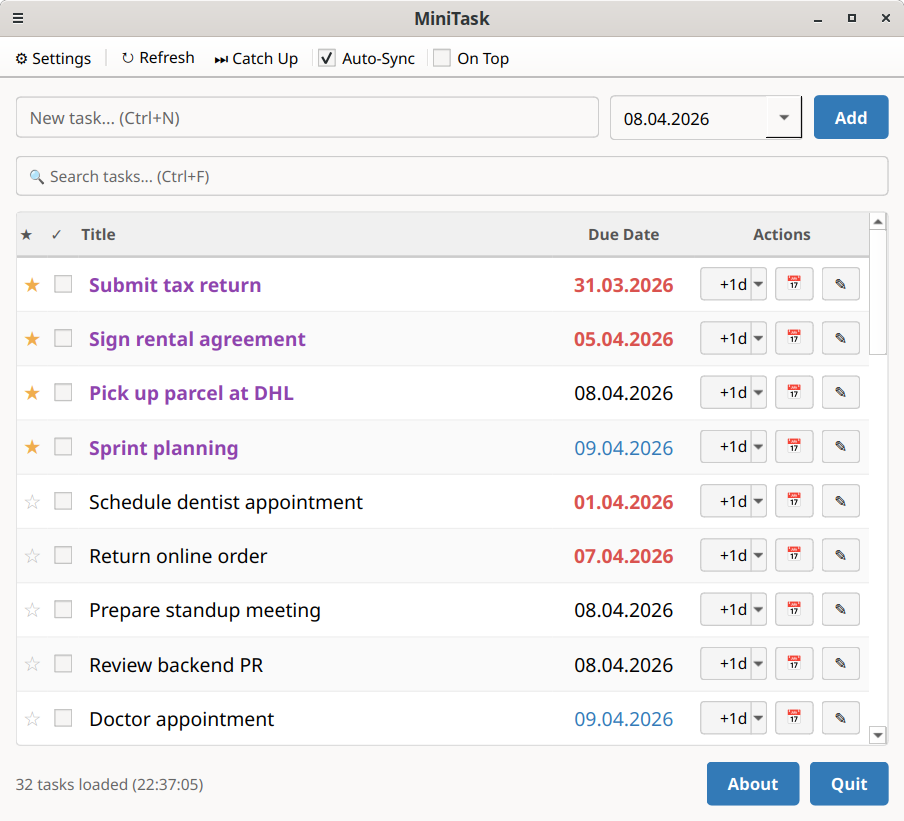
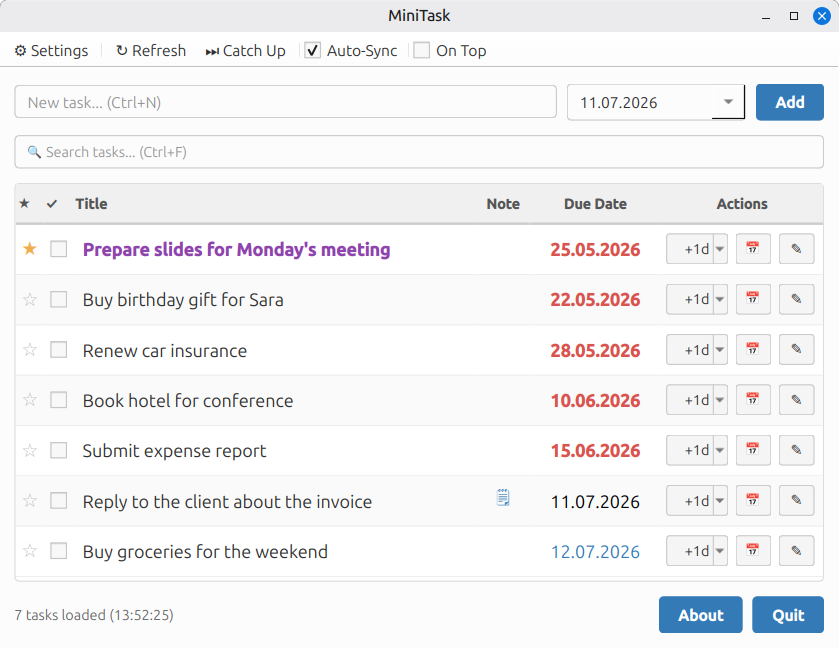
feat: add note (DESCRIPTION) support across UI, CalDAV and MCP
Adds a free-text note per task, mapped to the iCalendar DESCRIPTION
property, so notes stay portable and visible in other CalDAV clients.

- Task model gains a note field
- CalDAV create/update/parse write and read DESCRIPTION; existing notes
  are unfolded via the icalendar parser and preserved on update
- MCP create_task/update_task expose note, plus a clear_note flag for
  clients that drop empty-string arguments
- Edit dialog gets a multi-line note field; task table shows a note
  indicator column
- Docs (README, MCP.md) and screenshot updated

🤖 Generated with [Claude Code](https://claude.com/claude-code)

diff --git a/src/services/caldav_client.py b/src/services/caldav_client.py
@@ -61,7 +61,7 @@ class CalDAVService:
                 logger.warning("Failed to parse todo: %s", e)
         return tasks
 
-    def create_task(self, title: str, date_str: str = "") -> bool:
+    def create_task(self, title: str, date_str: str = "", note: str = "") -> bool:
         if not self._calendar:
             raise ConnectionError("No calendar selected")
         uid = str(uuid.uuid4()).upper()
@@ -79,6 +79,8 @@ class CalDAVService:
         ]
         if date_str:
             lines.append(f"DUE;VALUE=DATE:{date_str.replace('-', '')}")
+        if note:
+            lines.append(f"DESCRIPTION:{self._escape_ical(note)}")
         lines += ["END:VTODO", "END:VCALENDAR"]
         try:
             self._calendar.save_todo("\r\n".join(lines) + "\r\n")
@@ -89,7 +91,7 @@ class CalDAVService:
             raise
 
     def update_task(self, uri: str, title: str = "", date_str: str = "",
-                    starred: bool | None = None) -> bool:
+                    starred: bool | None = None, note: str | None = None) -> bool:
         if not self._calendar:
             raise ConnectionError("No calendar selected")
         try:
@@ -109,6 +111,18 @@ class CalDAVService:
                     existing_due = line
                 elif line.startswith("PRIORITY:"):
                     existing_priority = line
+
+            # DESCRIPTION can be folded across multiple physical lines, so read it
+            # via the icalendar parser (which unfolds/unescapes) instead of raw lines.
+            existing_note = ""
+            try:
+                for component in todo_obj.icalendar_instance.walk("VTODO"):
+                    desc = component.get("description")
+                    if desc:
+                        existing_note = str(desc)
+                    break
+            except Exception as e:
+                logger.warning("Failed to read existing description: %s", e)
 
             now = datetime.now(tz=timezone.utc).strftime("%Y%m%dT%H%M%SZ")
             lines = [
@@ -135,6 +149,13 @@ class CalDAVService:
             elif starred is None and existing_priority:
                 lines.append(existing_priority)
             # starred is False → kein PRIORITY-Eintrag = Stern entfernen
+
+            # note is None → keep existing; "" → clear; text → set
+            if note is not None:
+                if note:
+                    lines.append(f"DESCRIPTION:{self._escape_ical(note)}")
+            elif existing_note:
+                lines.append(f"DESCRIPTION:{self._escape_ical(existing_note)}")
 
             lines.append("STATUS:NEEDS-ACTION")
 
@@ -182,6 +203,8 @@ class CalDAVService:
                 priority = component.get("priority")
                 starred = int(str(priority)) == 1 if priority else False
                 completed = component.get("completed") is not None
+                description = component.get("description")
+                note = str(description) if description else ""
                 return Task(
                     id=uid,
                     uri=str(todo_obj.url),
@@ -189,6 +212,7 @@ class CalDAVService:
                     date=date_str,
                     completed=completed,
                     starred=starred,
+                    note=note,
                 )
         except Exception as e:
             logger.warning("Parse error: %s", e)

diff --git a/src/views/task_widgets.py b/src/views/task_widgets.py
@@ -27,8 +27,9 @@ from src.utils.date_helpers import (
 COL_STAR = 0
 COL_DONE = 1
 COL_TITLE = 2
-COL_DATE = 3
-COL_ACTIONS = 4
+COL_NOTE = 3
+COL_DATE = 4
+COL_ACTIONS = 5
 
 
 class TaskTable(QTreeWidget):
@@ -42,7 +43,7 @@ class TaskTable(QTreeWidget):
 
     def __init__(self, parent=None):
         super().__init__(parent)
-        self.setHeaderLabels(["\u2605", "\u2713", "Title", "Due Date", "Actions"])
+        self.setHeaderLabels(["\u2605", "\u2713", "Title", "Note", "Due Date", "Actions"])
         self.setRootIsDecorated(False)
         self.setAlternatingRowColors(True)
         self.setSelectionMode(QAbstractItemView.SelectionMode.NoSelection)
@@ -55,13 +56,16 @@ class TaskTable(QTreeWidget):
         header.setSectionResizeMode(COL_STAR, QHeaderView.ResizeMode.Fixed)
         header.setSectionResizeMode(COL_DONE, QHeaderView.ResizeMode.Fixed)
         header.setSectionResizeMode(COL_TITLE, QHeaderView.ResizeMode.Stretch)
+        header.setSectionResizeMode(COL_NOTE, QHeaderView.ResizeMode.Fixed)
         header.setSectionResizeMode(COL_DATE, QHeaderView.ResizeMode.Fixed)
         header.setSectionResizeMode(COL_ACTIONS, QHeaderView.ResizeMode.Fixed)
         self.setColumnWidth(COL_STAR, 24)
         self.setColumnWidth(COL_DONE, 24)
+        self.setColumnWidth(COL_NOTE, 44)
         self.setColumnWidth(COL_DATE, 110)
         self.setColumnWidth(COL_ACTIONS, 135)
         header.setDefaultAlignment(Qt.AlignmentFlag.AlignLeft | Qt.AlignmentFlag.AlignVCenter)
+        self.headerItem().setTextAlignment(COL_NOTE, Qt.AlignmentFlag.AlignCenter)
         self.headerItem().setTextAlignment(COL_DATE, Qt.AlignmentFlag.AlignCenter)
         self.headerItem().setTextAlignment(COL_ACTIONS, Qt.AlignmentFlag.AlignCenter)
 
@@ -136,6 +140,25 @@ class TaskTable(QTreeWidget):
         else:
             title_label.setStyleSheet("background: transparent;")
         self.setItemWidget(item, COL_TITLE, title_label)
+
+        # Note indicator (only shown when a note exists)
+        if task.note:
+            note_btn = QPushButton("\U0001f5d2")
+            note_btn.setFixedSize(22, 22)
+            note_btn.setCursor(Qt.CursorShape.PointingHandCursor)
+            note_btn.setStyleSheet(
+                "border: none; background: transparent; color: #337ab7; font-size: 14px;"
+            )
+            note_btn.setToolTip(task.note)
+            note_btn.clicked.connect(
+                lambda checked, uri=task.uri: self.edit_requested.emit(uri)
+            )
+            note_widget = QWidget()
+            note_layout = QHBoxLayout(note_widget)
+            note_layout.setContentsMargins(0, 0, 0, 0)
+            note_layout.setAlignment(Qt.AlignmentFlag.AlignCenter)
+            note_layout.addWidget(note_btn)
+            self.setItemWidget(item, COL_NOTE, note_widget)
 
         # Date
         date_text = format_date_display(task.date)
@@ -219,7 +242,7 @@ class TaskTable(QTreeWidget):
 
         # Starred row background
         if task.starred:
-            for col in range(5):
+            for col in range(6):
                 item.setBackground(col, QColor("#f5eef8"))
 
     def _on_click(self, item, column):

diff --git a/src/views/edit_dialog.py b/src/views/edit_dialog.py
@@ -8,21 +8,23 @@ from PySide6.QtWidgets import (
     QHBoxLayout,
     QLineEdit,
     QPushButton,
+    QTextEdit,
     QVBoxLayout,
 )
 
 
 class EditDialog(QDialog):
-    def __init__(self, title: str, date_str: str, parent=None):
+    def __init__(self, title: str, date_str: str, note: str = "", parent=None):
         super().__init__(parent)
         self.setWindowTitle("Edit Task")
-        self.setMinimumWidth(400)
+        self.setMinimumWidth(520)
         self.setModal(True)
         self._result_title: str | None = None
         self._result_date: str | None = None
-        self._setup_ui(title, date_str)
+        self._result_note: str | None = None
+        self._setup_ui(title, date_str, note)
 
-    def _setup_ui(self, title: str, date_str: str):
+    def _setup_ui(self, title: str, date_str: str, note: str):
         layout = QVBoxLayout(self)
         layout.setSpacing(12)
 
@@ -70,6 +72,17 @@ class EditDialog(QDialog):
             self.date_edit.setDate(date.today())
         form.addRow("Due:", self.date_edit)
 
+        self.note_edit = QTextEdit()
+        self.note_edit.setPlainText(note)
+        self.note_edit.setPlaceholderText("Optional note...")
+        self.note_edit.setAcceptRichText(False)
+        self.note_edit.setFixedHeight(175)
+        self.note_edit.setStyleSheet(
+            "QTextEdit { padding: 4px 8px; border: 1px solid #ccc; "
+            "border-radius: 4px; font-size: 13px; }"
+        )
+        form.addRow("Note:", self.note_edit)
+
         layout.addLayout(form)
 
         btn_layout = QHBoxLayout()
@@ -104,9 +117,10 @@ class EditDialog(QDialog):
             return
         self._result_title = title
         self._result_date = self.date_edit.date().toString("yyyy-MM-dd")
+        self._result_note = self.note_edit.toPlainText().strip()
         self.accept()
 
-    def get_result(self) -> tuple[str, str] | None:
+    def get_result(self) -> tuple[str, str, str] | None:
         if self._result_title is not None:
-            return self._result_title, self._result_date
+            return self._result_title, self._result_date, self._result_note
         return None

diff --git a/mcp_server.py b/mcp_server.py
@@ -90,19 +90,26 @@ def list_tasks() -> list[dict]:
             "date": t.date,
             "starred": t.starred,
             "completed": t.completed,
+            "note": t.note,
         }
         for t in tasks
     ]
 
 
 @mcp.tool()
-def create_task(title: str, date: str = "") -> str:
-    """Create a new task. Date format: YYYY-MM-DD (e.g. 2026-05-30). Defaults to today if omitted."""
+def create_task(title: str, date: str = "", note: str = "") -> str:
+    """Create a new task. Date format: YYYY-MM-DD (e.g. 2026-05-30). Defaults to today if omitted.
+
+    Args:
+        title: The task summary
+        date: Due date (YYYY-MM-DD), defaults to today if omitted
+        note: Optional free-text note (the VTODO DESCRIPTION), empty = no note
+    """
     _ensure_connected()
     if not date:
         from datetime import date as _date
         date = _date.today().isoformat()
-    _service.create_task(title, date)
+    _service.create_task(title, date, note)
     return f"Task created: {title}"
 
 
@@ -112,6 +119,8 @@ def update_task(
     title: str = "",
     date: str = "",
     starred: bool | None = None,
+    note: str | None = None,
+    clear_note: bool = False,
 ) -> str:
     """Update an existing task. The URI comes from list_tasks.
 
@@ -122,9 +131,13 @@ def update_task(
         title: New task title, empty = keep existing title
         date: Due date (YYYY-MM-DD), empty = keep existing date
         starred: True = add star, False = remove star, omit = keep unchanged
+        note: New note text, omit = keep unchanged. To remove the note, set
+            clear_note=True instead of passing an empty string.
+        clear_note: True = delete the note entirely. Takes precedence over note.
     """
     _ensure_connected()
-    _service.update_task(uri, title, date, starred)
+    effective_note = "" if clear_note else note
+    _service.update_task(uri, title, date, starred, effective_note)
     return f"Task updated: {title}" if title else "Task updated."
 
 

diff --git a/src/views/main_window.py b/src/views/main_window.py
@@ -528,17 +528,18 @@ class MainWindow(QMainWindow):
         if not task:
             return
 
-        dialog = EditDialog(task.title, task.date, self)
+        dialog = EditDialog(task.title, task.date, task.note, self)
         if dialog.exec() == EditDialog.DialogCode.Accepted:
             result = dialog.get_result()
             if result:
-                new_title, new_date = result
+                new_title, new_date, new_note = result
                 self._run_worker(
                     "update",
                     uri=uri,
                     title=new_title,
                     date_str=new_date,
                     starred=task.starred,
+                    note=new_note,
                 )
 
     def _on_increment(self, uri: str):

diff --git a/src/models/task.py b/src/models/task.py
@@ -9,3 +9,4 @@ class Task:
     date: str = ""
     completed: bool = False
     starred: bool = False
+    note: str = ""

diff --git a/MCP.md b/MCP.md
@@ -22,6 +22,8 @@ This document is the detailed reference for the tools themselves.
   off in the desktop app. There is no separate "done" list.
 - **Dates** are plain `YYYY-MM-DD` strings (the `DUE` date), with no time
   component.
+- **Notes** map to the iCalendar `DESCRIPTION` property — a free-text field
+  shown in the desktop app's edit dialog and flagged with an icon in the list.
 
 ## Tools
 
@@ -40,6 +42,7 @@ List all open (incomplete) tasks in the current calendar.
   | `date` | string | Due date `YYYY-MM-DD`, or `""` if none |
   | `starred` | bool | `true` = `PRIORITY:1` set |
   | `completed` | bool | Always `false` here (completed tasks aren't listed) |
+  | `note` | string | Free-text note (the `DESCRIPTION`), or `""` if none |
 
 ### `create_task`
 
@@ -48,6 +51,7 @@ Create a new task.
 - **Parameters:**
   - `title` (string, required) — the task summary
   - `date` (string, optional) — due date `YYYY-MM-DD`; **defaults to today** if omitted
+  - `note` (string, optional) — free-text note (the `DESCRIPTION`); empty = no note
 - **Returns:** confirmation string
 
 ### `update_task`
@@ -61,6 +65,10 @@ task without re-sending its title.
   - `title` (string, optional) — new title; empty = keep existing title
   - `date` (string, optional) — new due date `YYYY-MM-DD`; empty = keep existing date
   - `starred` (bool, optional) — `true` = add star, `false` = remove star, omit = keep unchanged
+  - `note` (string, optional) — new note text; omit = keep unchanged. To remove
+    the note, use `clear_note` (below) rather than an empty string, since some MCP
+    clients drop empty-string arguments before they reach the server.
+  - `clear_note` (bool, optional) — `true` = delete the note entirely; takes precedence over `note`
 - **Returns:** confirmation string
 
 ### `complete_task`

diff --git a/README.md b/README.md
@@ -13,7 +13,7 @@ A lightweight CalDAV task manager desktop application built with PySide6 (Qt6) a
 
 - **MCP server included** — manage tasks via natural language from any MCP-compatible client: Claude Code, Claude Desktop, [Cowork](https://www.anthropic.com/product/claude-cowork), and more
 - Connect to any CalDAV server (e.g. Nextcloud, mailbox.org, Radicale)
-- Create, edit, and complete tasks with due dates
+- Create, edit, and complete tasks with due dates and free-text notes
 - Calendar popup for date selection
 - Postpone tasks by +1 day, +1 week, or +1 month
 - Set any task to today with one click
@@ -181,8 +181,8 @@ Restart Claude Code — the MCP server starts automatically as a subprocess, no 
 | Tool | Description |
 |---|---|
 | `list_tasks` | Show all open tasks |
-| `create_task` | Create a task (title + optional due date) |
-| `update_task` | Edit a task — pass only the fields you want to change (title, date, and/or star); the rest is kept |
+| `create_task` | Create a task (title + optional due date and note) |
+| `update_task` | Edit a task — pass only the fields you want to change (title, date, star, and/or note); the rest is kept |
 | `complete_task` | Mark a task as done — removes it, same as checking it off in the app |
 | `catchup` | Move all overdue tasks to today — same as "Catch Up" in the app |
 | `list_calendars` | *(Setup)* List all calendars on the CalDAV server |
